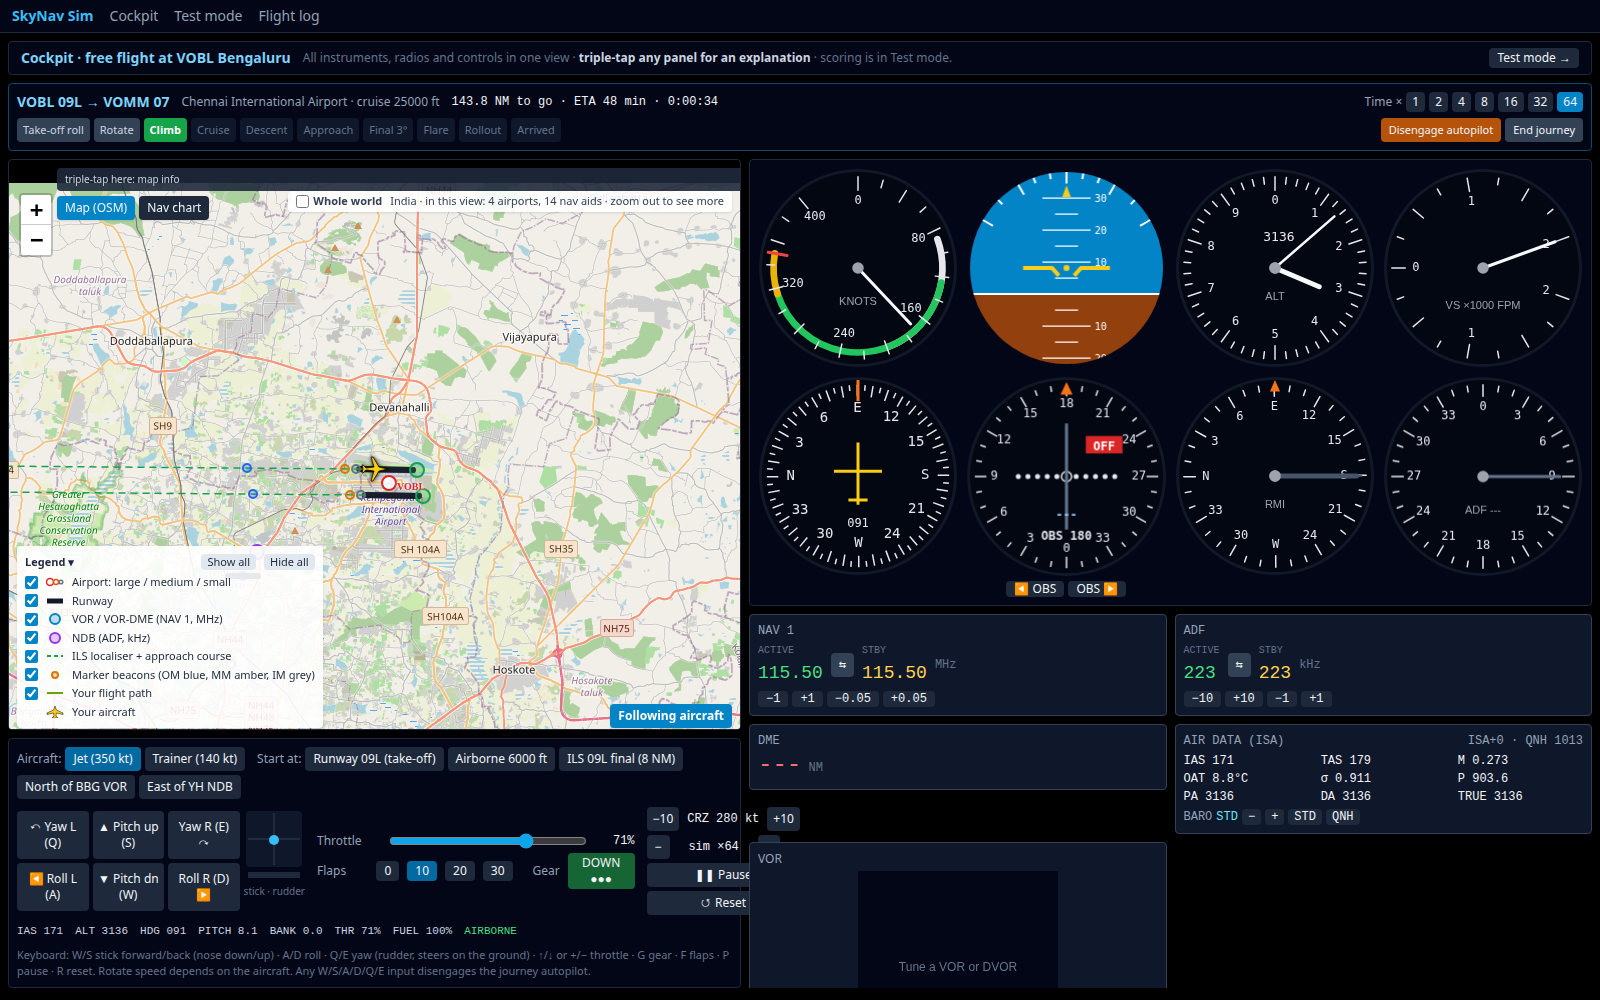
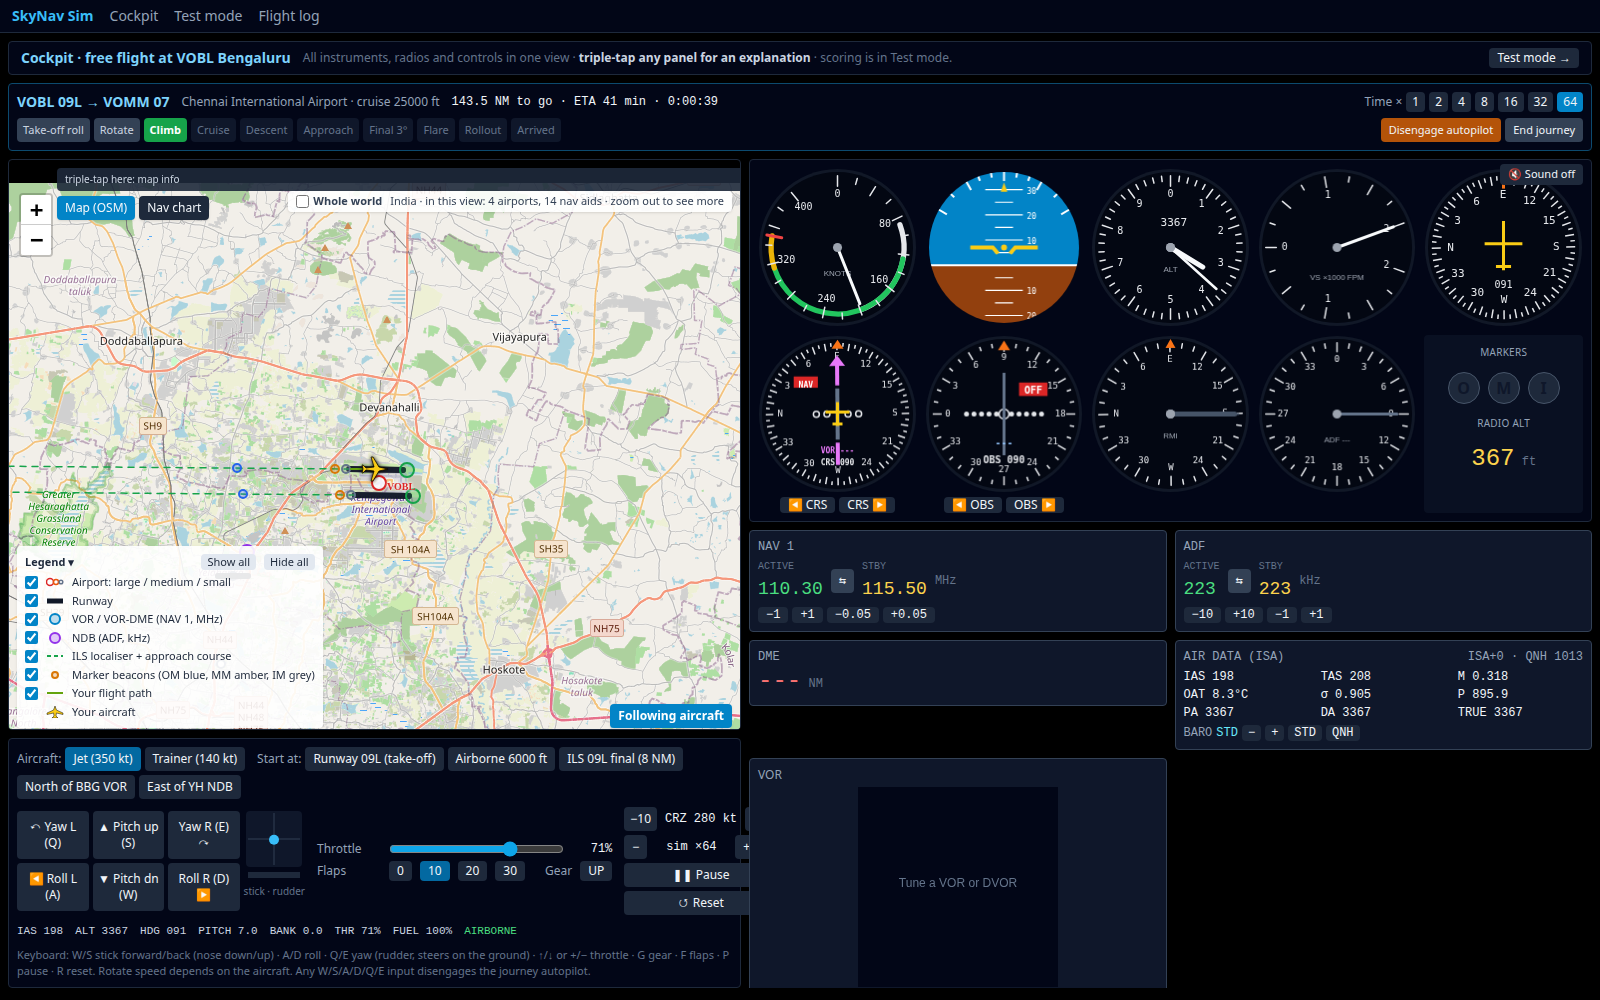
feat(instruments): hsi, marker lights, radio altimeter, audio cues

diff --git a/app/components/instruments/HSI.vue b/app/components/instruments/HSI.vue
@@ -1,0 +1,100 @@
+<script setup lang="ts">
+import { ref, watch } from 'vue'
+import { wrap360 } from '../../../shared/utils/units'
+import { useCanvas } from '../../composables/useCanvas'
+import { dial, label, tick } from './dial'
+import { hsiBarOffsetPx, type HsiInput } from './hsiMath'
+
+const props = defineProps<{ hdgDeg: number; hsi: HsiInput }>()
+const emit = defineEmits<{ obs: [deg: number] }>()
+const canvas = ref<HTMLCanvasElement | null>(null)
+const rad = (d: number) => (d * Math.PI) / 180
+
+const { redraw } = useCanvas(canvas, (ctx, w, h) => {
+  const d = dial(ctx, w, h)
+  const rot = -props.hdgDeg
+  const NAMES: Record<number, string> = { 0: 'N', 90: 'E', 180: 'S', 270: 'W' }
+  for (let a = 0; a < 360; a += 5) tick(d, a + rot, a % 10 === 0 ? 0.1 : 0.05)
+  for (let a = 0; a < 360; a += 30) label(d, a + rot, NAMES[a] ?? String(a / 10), 0.76, 0.12)
+  // lubber line
+  ctx.fillStyle = '#f97316'
+  ctx.beginPath(); ctx.moveTo(d.cx, d.cy - d.r * 0.99); ctx.lineTo(d.cx - 6, d.cy - d.r * 0.87); ctx.lineTo(d.cx + 6, d.cy - d.r * 0.87); ctx.fill()
+
+  const s = props.hsi
+  const color = s.mode === 'LOC' ? '#4ade80' : '#e879f9'
+  const dot = d.r * 0.14
+  ctx.save()
+  ctx.translate(d.cx, d.cy)
+  ctx.rotate(rad(s.courseDeg - props.hdgDeg))
+  // deviation dots
+  ctx.strokeStyle = '#e5e7eb'; ctx.lineWidth = 1.5
+  for (const i of [-2, -1, 1, 2]) { ctx.beginPath(); ctx.arc(i * dot, 0, 3, 0, Math.PI * 2); ctx.stroke() }
+  // course arrow (head and tail)
+  ctx.strokeStyle = color; ctx.fillStyle = color; ctx.lineWidth = 4
+  ctx.beginPath(); ctx.moveTo(0, -d.r * 0.68); ctx.lineTo(0, -d.r * 0.38); ctx.stroke()
+  ctx.beginPath(); ctx.moveTo(0, -d.r * 0.78); ctx.lineTo(-8, -d.r * 0.64); ctx.lineTo(8, -d.r * 0.64); ctx.fill()
+  ctx.beginPath(); ctx.moveTo(0, d.r * 0.38); ctx.lineTo(0, d.r * 0.68); ctx.stroke()
+  // deviation bar
+  const bx = s.navValid ? hsiBarOffsetPx(s.devFrac, dot) : 0
+  ctx.strokeStyle = s.navValid ? color : '#64748b'
+  ctx.beginPath(); ctx.moveTo(bx, -d.r * 0.34); ctx.lineTo(bx, d.r * 0.34); ctx.stroke()
+  // TO / FROM triangle
+  if (s.navValid && s.toFrom !== 'OFF') {
+    const y = s.toFrom === 'TO' ? -d.r * 0.22 : d.r * 0.22
+    const dir = s.toFrom === 'TO' ? -1 : 1
+    ctx.fillStyle = '#f8fafc'
+    ctx.beginPath(); ctx.moveTo(d.r * 0.2, y + dir * 8); ctx.lineTo(d.r * 0.2 - 7, y - dir * 4); ctx.lineTo(d.r * 0.2 + 7, y - dir * 4); ctx.fill()
+  }
+  ctx.restore()
+
+  // aircraft symbol
+  ctx.strokeStyle = '#facc15'; ctx.lineWidth = 3
+  ctx.beginPath()
+  ctx.moveTo(d.cx, d.cy - 12); ctx.lineTo(d.cx, d.cy + 12)
+  ctx.moveTo(d.cx - 12, d.cy - 2); ctx.lineTo(d.cx + 12, d.cy - 2)
+  ctx.moveTo(d.cx - 5, d.cy + 10); ctx.lineTo(d.cx + 5, d.cy + 10)
+  ctx.stroke()
+
+  // glide-slope scale (right) in LOC mode
+  if (s.mode === 'LOC') {
+    const gx = d.cx + d.r * 0.88
+    ctx.strokeStyle = '#e5e7eb'; ctx.lineWidth = 1.5
+    for (const i of [-2, -1, 1, 2]) { ctx.beginPath(); ctx.arc(gx, d.cy + i * dot * 0.8, 2.5, 0, Math.PI * 2); ctx.stroke() }
+    ctx.beginPath(); ctx.moveTo(gx - 6, d.cy); ctx.lineTo(gx + 6, d.cy); ctx.stroke()
+    if (s.gsValid) {
+      const gy = d.cy - Math.max(-1, Math.min(1, s.gsFrac)) * 2 * dot * 0.8
+      ctx.fillStyle = '#4ade80'
+      ctx.beginPath(); ctx.moveTo(gx, gy - 7); ctx.lineTo(gx + 6, gy); ctx.lineTo(gx, gy + 7); ctx.lineTo(gx - 6, gy); ctx.fill()
+    }
+  }
+
+  // flags and text
+  ctx.font = `bold ${Math.round(d.r * 0.11)}px ui-monospace, monospace`
+  ctx.textAlign = 'center'
+  const flag = (text: string, x: number, y: number) => {
+    ctx.fillStyle = '#dc2626'; ctx.fillRect(x - d.r * 0.16, y - d.r * 0.08, d.r * 0.32, d.r * 0.15)
+    ctx.fillStyle = '#fff'; ctx.fillText(text, x, y + d.r * 0.035)
+  }
+  if (!s.navValid) flag('NAV', d.cx - d.r * 0.42, d.cy - d.r * 0.42)
+  if (s.mode === 'LOC' && !s.gsValid) flag('GS', d.cx + d.r * 0.55, d.cy - d.r * 0.42)
+  ctx.fillStyle = color
+  ctx.fillText(`${s.mode} ${s.ident || '---'}`, d.cx, d.cy + d.r * 0.5)
+  ctx.fillStyle = '#e5e7eb'
+  ctx.fillText(`CRS ${String(Math.round(wrap360(s.courseDeg))).padStart(3, '0')}`, d.cx, d.cy + d.r * 0.66)
+})
+watch(() => [props.hdgDeg, props.hsi], redraw, { deep: true })
+
+function turn(e: MouseEvent, dir: number): void {
+  emit('obs', wrap360(props.hsi.courseDeg + dir * (e.shiftKey ? 10 : 1)))
+}
+</script>
+
+<template>
+  <div class="flex flex-col items-center gap-1">
+    <canvas ref="canvas" class="aspect-square w-full" />
+    <div class="flex gap-1 text-xs">
+      <button class="rounded bg-slate-800 px-2 disabled:opacity-40" :disabled="hsi.mode === 'LOC'" title="Course −1 (shift −10)" @click="turn($event, -1)">◀ CRS</button>
+      <button class="rounded bg-slate-800 px-2 disabled:opacity-40" :disabled="hsi.mode === 'LOC'" title="Course +1 (shift +10)" @click="turn($event, 1)">CRS ▶</button>
+    </div>
+  </div>
+</template>

diff --git a/app/components/views/CockpitPanel.vue b/app/components/views/CockpitPanel.vue
@@ -1,5 +1,5 @@
 <script setup lang="ts">
-import { ref } from 'vue'
+import { computed, ref, toRef } from 'vue'
 import { useSimStore } from '../../stores/sim'
 import { indicatedAltitudeFt } from '../../../shared/utils/isa'
 import OsmMap from './OsmMap.vue'
@@ -18,9 +18,18 @@ import DmeReadout from '../instruments/DmeReadout.vue'
 import AirDataPanel from '../instruments/AirDataPanel.vue'
 import NavRadio from '../radios/NavRadio.vue'
 import InfoTap from './InfoTap.vue'
+import HSI from '../instruments/HSI.vue'
+import MarkerRaPanel from '../instruments/MarkerRaPanel.vue'
+import { hsiInput } from '../instruments/hsiMath'
+import { useAudio } from '../../composables/useAudio'
 
 const store = useSimStore()
 const mapTab = ref<'osm' | 'nav'>('osm')
+const hsi = computed(() => {
+  const w = store.world
+  return hsiInput(w.stations, w.runways, w.radios.nav1MHz, w.radios.obsDeg, w.ac, w.nav.vor1, w.nav.ils)
+})
+const audio = useAudio(toRef(() => store.world.nav.markers), toRef(() => store.world.nav.raFt))
 </script>
 
 <template>
@@ -41,15 +50,18 @@ const mapTab = ref<'osm' | 'nav'>('osm')
     </div>
     <div class="flex min-h-0 flex-col gap-2 overflow-y-auto">
       <ClientOnly>
-        <div class="grid grid-cols-4 gap-2 rounded border border-slate-800 bg-slate-950 p-2">
+        <div class="relative grid grid-cols-5 gap-2 rounded border border-slate-800 bg-slate-950 p-2">
+          <button class="absolute right-2 top-1 z-10 rounded bg-slate-800 px-2 py-0.5 text-[11px] hover:bg-slate-700" :title="audio.enabled.value ? 'Mute marker tones and callouts' : 'Enable marker tones and altitude callouts'" @click="audio.toggle()">{{ audio.enabled.value ? '🔊 Sound on' : '🔇 Sound off' }}</button>
           <InfoTap id="airspeed"><AirspeedIndicator :ias-kt="store.world.ac.iasKt" :max-kt="store.world.profile.gaugeMaxKt" :stall-kt="store.world.profile.stallCleanKt" :flap-stall-kt="store.world.profile.stallCleanKt * 0.7" :vne-kt="store.world.profile.maxIasKt" /></InfoTap>
           <InfoTap id="attitude"><AttitudeIndicator :pitch-deg="store.world.ac.pitchDeg" :bank-deg="store.world.ac.bankDeg" /></InfoTap>
           <InfoTap id="altimeter"><Altimeter :alt-ft="indicatedAltitudeFt(store.world.ac.altFt, store.world.radios.baroHpa, store.world.atmo)" /></InfoTap>
           <InfoTap id="vsi"><VerticalSpeed :vs-fpm="store.world.ac.vsFpm" /></InfoTap>
           <InfoTap id="heading"><HeadingIndicator :hdg-deg="store.world.ac.hdgDeg" /></InfoTap>
+          <InfoTap id="hsi"><HSI :hdg-deg="store.world.ac.hdgDeg" :hsi="hsi" @obs="store.setRadio({ obsDeg: $event })" /></InfoTap>
           <InfoTap id="cdi"><CDI :vor="store.world.nav.vor1" :obs-deg="store.world.radios.obsDeg" @obs="store.setRadio({ obsDeg: $event })" /></InfoTap>
           <InfoTap id="rmi"><RMI :hdg-deg="store.world.ac.hdgDeg" :vor="store.world.nav.vor1" :adf="store.world.nav.adf" /></InfoTap>
           <InfoTap id="adf"><AdfIndicator :adf="store.world.nav.adf" /></InfoTap>
+          <InfoTap id="markers"><MarkerRaPanel :markers="store.world.nav.markers" :ra-ft="store.world.nav.raFt" :callout="audio.callout.value" /></InfoTap>
         </div>
         <div class="grid grid-cols-2 gap-2">
           <InfoTap id="navRadio"><NavRadio :active="store.world.radios.nav1MHz" @tune="store.setRadio({ nav1MHz: $event })" /></InfoTap>

diff --git a/app/composables/useAudio.ts b/app/composables/useAudio.ts
@@ -1,0 +1,71 @@
+import { onMounted, onUnmounted, ref, watch, type Ref } from 'vue'
+import type { MarkerOutput } from '../../shared/types'
+import { callouts } from '../nav/radioAlt'
+
+/** On/off patterns in 125 ms slots: OM dashes, MM dot-dash, IM dots. */
+const PATTERNS = { om: { hz: 400, slots: [1, 1, 1, 0] }, mm: { hz: 1300, slots: [1, 0, 1, 1, 1, 0] }, im: { hz: 3000, slots: [1, 0] } } as const
+const WORDS: Record<number, string> = { 1000: 'one thousand', 500: 'five hundred', 100: 'one hundred', 50: 'fifty' }
+
+/**
+ * Marker-beacon tones (Web Audio) and radio-altimeter callouts (speech). Off until the user enables sound
+ * (browsers only allow audio after a user gesture). Callouts are also shown as text.
+ */
+export function useAudio(markers: Ref<MarkerOutput | undefined>, raFt: Ref<number | null | undefined>) {
+  const enabled = ref(false)
+  const callout = ref('')
+  let ctx: AudioContext | null = null
+  let osc: OscillatorNode | null = null
+  let gain: GainNode | null = null
+  let timer: ReturnType<typeof setInterval> | null = null
+  let slot = 0
+  let calloutTimer: ReturnType<typeof setTimeout> | null = null
+
+  function ensureAudio(): void {
+    if (ctx) return
+    ctx = new AudioContext()
+    osc = ctx.createOscillator()
+    gain = ctx.createGain()
+    gain.gain.value = 0
+    osc.connect(gain).connect(ctx.destination)
+    osc.start()
+  }
+
+  function tickTone(): void {
+    if (!ctx || !osc || !gain) return
+    const m = markers.value
+    const active = m?.im ? PATTERNS.im : m?.mm ? PATTERNS.mm : m?.om ? PATTERNS.om : null
+    slot++
+    if (!enabled.value || !active) { gain.gain.setTargetAtTime(0, ctx.currentTime, 0.005); return }
+    osc.frequency.setValueAtTime(active.hz, ctx.currentTime)
+    gain.gain.setTargetAtTime(active.slots[slot % active.slots.length] ? 0.08 : 0, ctx.currentTime, 0.005)
+  }
+
+  function toggle(): void {
+    enabled.value = !enabled.value
+    if (enabled.value) {
+      ensureAudio()
+      void ctx?.resume()
+    }
+  }
+
+  watch(raFt, (ra, prev) => {
+    for (const c of callouts(prev ?? null, ra ?? null)) {
+      callout.value = WORDS[c] ?? String(c)
+      if (calloutTimer) clearTimeout(calloutTimer)
+      calloutTimer = setTimeout(() => { callout.value = '' }, 2000)
+      if (enabled.value && 'speechSynthesis' in window) {
+        window.speechSynthesis.cancel()
+        window.speechSynthesis.speak(new SpeechSynthesisUtterance(WORDS[c] ?? String(c)))
+      }
+    }
+  })
+
+  onMounted(() => { timer = setInterval(tickTone, 125) })
+  onUnmounted(() => {
+    if (timer) clearInterval(timer)
+    if (calloutTimer) clearTimeout(calloutTimer)
+    void ctx?.close()
+  })
+
+  return { enabled, callout, toggle }
+}

diff --git a/app/components/views/explanations.ts b/app/components/views/explanations.ts
@@ -2,6 +2,20 @@
 export interface Explanation { title: string; what: string; read: string[]; how: string; controls?: string }
 
 export const EXPLANATIONS: Record<string, Explanation> = {
+  hsi: {
+    title: 'HSI (horizontal situation indicator)',
+    what: 'A heading indicator and a course indicator in one: where you are pointing, and where you are relative to the selected course.',
+    read: ['The card rotates with your heading (lubber line at the top); the yellow symbol is your aircraft.', 'VOR mode (magenta): the arrow is the OBS course; the centre bar shows the deviation (2 dots each side, 5° per dot); the white triangle shows TO/FROM.', 'LOC mode (green, NAV 1 on an ILS frequency): the arrow is set to the runway heading automatically; full scale is 2.5° (1.25° per dot).', 'Glide-slope diamond (right): diamond above centre = you are below the path, so fly up. Red NAV/GS flags = no signal.'],
+    how: 'Because the course bar sits on the rotating card, the picture matches the real geometry: when the bar is left of the aircraft symbol, the course line is to your left. The localiser compares two lobes (90/150 Hz) for left/right; the glide slope does the same vertically on a 3° path.',
+    controls: 'CRS ◀ ▶ sets the course in VOR mode (Shift = 10°). Tune NAV 1 to 110.30 (09L) or 109.90 (09R) at Bengaluru for the ILS.',
+  },
+  markers: {
+    title: 'Marker beacons and radio altimeter',
+    what: 'Marker lights show when you pass over the outer, middle and inner markers on an ILS approach; the radio altimeter shows your height above the ground.',
+    read: ['O (blue): outer marker, ≈4.5 NM out, where you normally join the glide slope.', 'M (amber): middle marker, ≈0.6 NM: near decision height.', 'I (white): inner marker, close to the threshold.', 'Radio alt: height above the ground in feet (shown below 2500 ft); amber below 500 ft; callouts at 1000, 500, 100 and 50 ft.'],
+    how: 'Markers are 75 MHz transmitters pointing straight up; the light (and tone, if sound is on) comes on only inside their narrow cone. The radio altimeter times a radio signal reflected off the ground, so unlike the barometric altimeter it shows height above the terrain directly below.',
+    controls: '🔊 Sound on/off enables the marker tones (OM 400 Hz dashes, MM 1300 Hz dot-dash, IM 3000 Hz dots) and spoken callouts.',
+  },
   airspeed: {
     title: 'Airspeed indicator (ASI)',
     what: 'Indicated airspeed (IAS) in knots, measured from the dynamic pressure in the pitot tube.',

diff --git a/app/components/instruments/MarkerRaPanel.vue b/app/components/instruments/MarkerRaPanel.vue
@@ -1,0 +1,27 @@
+<script setup lang="ts">
+import type { MarkerOutput } from '../../../shared/types'
+
+defineProps<{ markers: MarkerOutput | undefined; raFt: number | null | undefined; callout: string }>()
+const LAMPS = [
+  { key: 'om', label: 'O', on: 'bg-blue-500 shadow-[0_0_12px_#3b82f6]', title: 'Outer marker (400 Hz, dashes)' },
+  { key: 'mm', label: 'M', on: 'bg-amber-400 shadow-[0_0_12px_#f59e0b]', title: 'Middle marker (1300 Hz, dot-dash)' },
+  { key: 'im', label: 'I', on: 'bg-white shadow-[0_0_12px_#fff]', title: 'Inner marker (3000 Hz, dots)' },
+] as const
+</script>
+
+<template>
+  <div class="flex h-full flex-col items-center justify-center gap-3 rounded bg-slate-900/60 p-2">
+    <div class="text-[10px] uppercase tracking-wide text-slate-400">Markers</div>
+    <div class="flex gap-2">
+      <span
+v-for="l in LAMPS" :key="l.key" :title="l.title"
+        class="flex h-8 w-8 items-center justify-center rounded-full border border-slate-600 font-bold text-slate-900"
+        :class="markers?.[l.key] ? `${l.on} animate-pulse` : 'bg-slate-800 text-slate-500'">{{ l.label }}</span>
+    </div>
+    <div class="text-[10px] uppercase tracking-wide text-slate-400">Radio alt</div>
+    <div class="font-mono text-2xl" :class="raFt === null || raFt === undefined ? 'text-slate-600' : raFt < 500 ? 'text-amber-300' : 'text-green-400'">
+      {{ raFt === null || raFt === undefined ? '----' : Math.round(raFt) }}<span class="text-xs text-slate-500"> ft</span>
+    </div>
+    <div class="h-4 text-xs font-semibold text-amber-300">{{ callout }}</div>
+  </div>
+</template>

diff --git a/app/components/instruments/hsiMath.ts b/app/components/instruments/hsiMath.ts
@@ -1,0 +1,29 @@
+import type { IlsOutput, NavStation, RunwayInfo, ToFrom, VorOutput } from '../../../shared/types'
+import { tunedLocaliser } from '../../nav/ils'
+
+export interface HsiInput {
+  mode: 'VOR' | 'LOC'
+  courseDeg: number
+  devFrac: number // −1..1, positive = course is to the right (fly right)
+  navValid: boolean
+  toFrom: ToFrom
+  gsValid: boolean
+  gsFrac: number // positive = glide path above you (fly up)
+  ident: string
+}
+
+/** Decides what the HSI shows: the ILS when NAV 1 is tuned to a localiser, otherwise the VOR and its OBS. */
+export function hsiInput(stations: NavStation[], runways: RunwayInfo[], nav1MHz: number, obsDeg: number, ac: { x: number; y: number }, vor?: VorOutput, ils?: IlsOutput): HsiInput {
+  const tuned = tunedLocaliser(stations, runways, nav1MHz, ac)
+  if (tuned) {
+    return {
+      mode: 'LOC', courseDeg: tuned.runway.headingDeg, devFrac: ils?.locValid ? ils.locFrac : 0, navValid: !!ils?.locValid,
+      toFrom: 'OFF', gsValid: !!ils?.gsValid, gsFrac: ils?.gsValid ? ils.gsFrac : 0, ident: tuned.loc.ident,
+    }
+  }
+  const ok = !!vor?.valid && vor.toFrom !== 'OFF'
+  return { mode: 'VOR', courseDeg: obsDeg, devFrac: ok ? vor!.cdiFrac : 0, navValid: ok, toFrom: ok ? vor!.toFrom : 'OFF', gsValid: false, gsFrac: 0, ident: vor?.valid ? vor.ident : '' }
+}
+
+/** Offset (px) of the deviation bar: full scale = 2 dots. */
+export const hsiBarOffsetPx = (devFrac: number, dotPx: number): number => Math.max(-1, Math.min(1, devFrac)) * 2 * dotPx

diff --git a/tests/unit/hsi.test.ts b/tests/unit/hsi.test.ts
@@ -1,0 +1,26 @@
+import { describe, expect, it } from 'vitest'
+import { hsiBarOffsetPx, hsiInput } from '../../app/components/instruments/hsiMath'
+import { RWY09, SEED_STATIONS } from './helpers/fixtures'
+import type { IlsOutput, VorOutput } from '../../shared/types'
+
+const ils: IlsOutput = { locValid: true, locDevDeg: 1, locFrac: 0.4, gsValid: true, gsDevDeg: -0.35, gsFrac: -0.5 }
+const vor: VorOutput = { valid: true, ident: 'TRN', radialDeg: 270, obsDeg: 90, toFrom: 'TO', cdiDevDeg: 5, cdiFrac: 0.5 }
+
+describe('HSI', () => {
+  it('shows the ILS (runway course) when NAV 1 is tuned to a localiser', () => {
+    const h = hsiInput(SEED_STATIONS, [RWY09], 110.3, 45, { x: -8, y: 0 }, vor, ils)
+    expect(h).toMatchObject({ mode: 'LOC', courseDeg: 90, devFrac: 0.4, navValid: true, gsValid: true, gsFrac: -0.5, ident: 'ITRN' })
+  })
+  it('shows the VOR with the OBS course otherwise', () => {
+    const h = hsiInput(SEED_STATIONS, [RWY09], 113.5, 90, { x: -8, y: 6 }, vor, ils)
+    expect(h).toMatchObject({ mode: 'VOR', courseDeg: 90, devFrac: 0.5, toFrom: 'TO', gsValid: false })
+  })
+  it('flags NAV when the VOR is invalid', () => {
+    expect(hsiInput([], [], 113.5, 90, { x: 0, y: 0 }, { ...vor, valid: false }).navValid).toBe(false)
+  })
+  it('bar offset: full scale is two dots', () => {
+    expect(hsiBarOffsetPx(1, 10)).toBe(20)
+    expect(hsiBarOffsetPx(-0.5, 10)).toBe(-10)
+    expect(hsiBarOffsetPx(3, 10)).toBe(20)
+  })
+})

diff --git a/app/sim/presets.ts b/app/sim/presets.ts
@@ -11,7 +11,7 @@ const onGlidePath = (distNm: number) => AIRPORT_ELEV_FT + distNm * NM_TO_FT * Ma
 export const PRESETS: Preset[] = [
   { id: 'runway', label: 'Runway 09L (take-off)', ac: { x: -0.2, y: 0, hdgDeg: 90.5, onGround: true, gearDown: true, altFt: AIRPORT_ELEV_FT } },
   { id: 'cruise', label: 'Airborne 6000 ft', ac: { ...cruise, x: -10, y: 2, altFt: 6000, hdgDeg: 90 } },
-  { id: 'ils', label: 'ILS 09L final (8 NM)', ac: { ...cruise, x: -8, y: 0, altFt: onGlidePath(8.16), hdgDeg: 90.5, iasKt: 110, throttle: 0.6, gearDown: true, flapsDeg: 20 }, radios: { nav1MHz: 110.3, obsDeg: 90 } },
+  { id: 'ils', label: 'ILS 09L final (8 NM)', ac: { ...cruise, x: -8 * Math.sin(deg2rad(90.5)), y: -8 * Math.cos(deg2rad(90.5)), altFt: onGlidePath(8.16), hdgDeg: 90.5, iasKt: 110, throttle: 0.6, gearDown: true, flapsDeg: 20 }, radios: { nav1MHz: 110.3, obsDeg: 90 } },
   { id: 'vor', label: 'North of BBG VOR', ac: { ...cruise, x: -3, y: -2, altFt: 7000, hdgDeg: 180 }, radios: { nav1MHz: 115.5, obsDeg: 180 } },
   { id: 'ndb', label: 'East of YH NDB', ac: { ...cruise, x: 12, y: -3, altFt: 6500, hdgDeg: 270 }, radios: { adfKHz: 223 } },
 ]

diff --git a/docs/agent/PROGRESS.md b/docs/agent/PROGRESS.md
@@ -24,7 +24,7 @@ Pick the first `TODO` whose dependencies are all `DONE`. A task without listed d
 | W2-T16 | DVOR visual, range flags, wind from scenario | T14, T15 | DONE |
 | W2-CHK | Week 2 checkpoint | T11–T16 | DONE |
 | W3-T17 | ILS, markers, radio altimeter logic | W2-CHK | DONE |
-| W3-T18 | HSI, marker lights, RA readout, audio callouts | T17 | TODO |
+| W3-T18 | HSI, marker lights, RA readout, audio callouts | T17 | DONE |
 | W3-T19 | ProfileView | T17 | TODO |
 | W3-T20 | Touchdown judge + flight end on landing/crash | T17 | TODO |
 | W3-T21 | Recorder, samples API, scoring service | T20 | TODO |
@@ -51,6 +51,11 @@ Pick the first `TODO` whose dependencies are all `DONE`. A task without listed d
 
 ## Handoff log
 Newest at the top. At most 5 lines per task.
+
+### W3-T18 · DONE · 2026-11-21
+- HSI.vue + hsiMath.ts (auto VOR/LOC mode: LOC when NAV 1 is on a localiser frequency, course = runway heading), MarkerRaPanel.vue (O/M/I lamps, RA, callout text), useAudio (marker tones + spoken callouts; off until enabled).
+- Cockpit instruments grid is now 5 × 2; triple-tap cards for HSI and markers/RA. ILS preset sits on the 09L centreline (hdg 090.5).
+- e2e: ILS final preset check (11 browser checks).
 
 ### W3-T17 · DONE · 2026-11-21
 - app/nav/{ils,markers,radioAlt}.ts; engine sets nav.ils/markers/raFt using the ground elevation.
